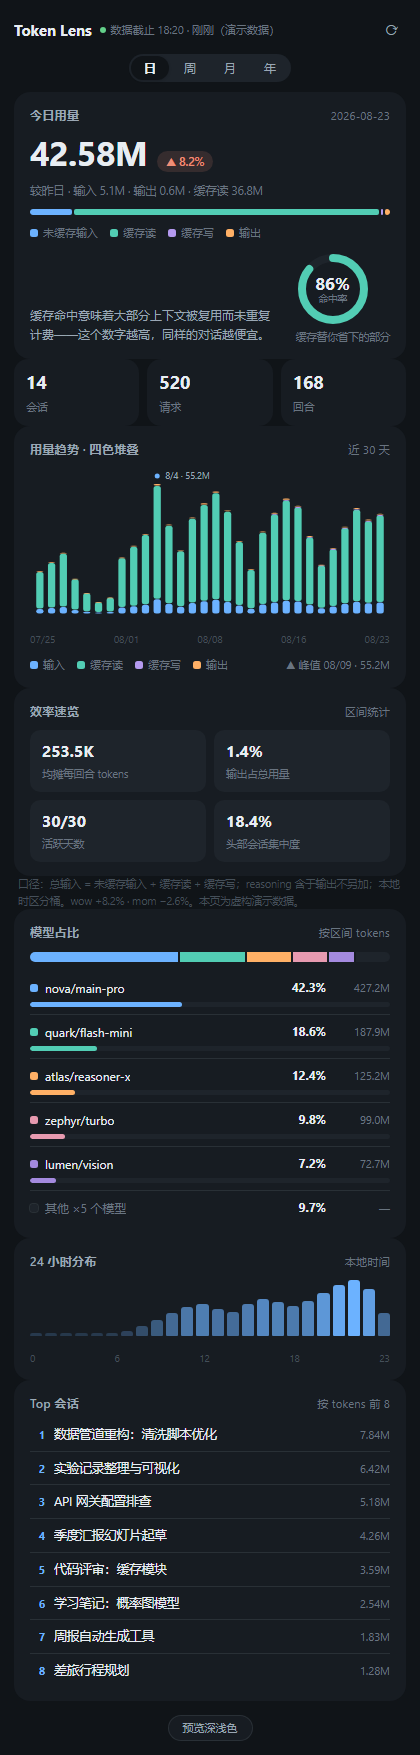
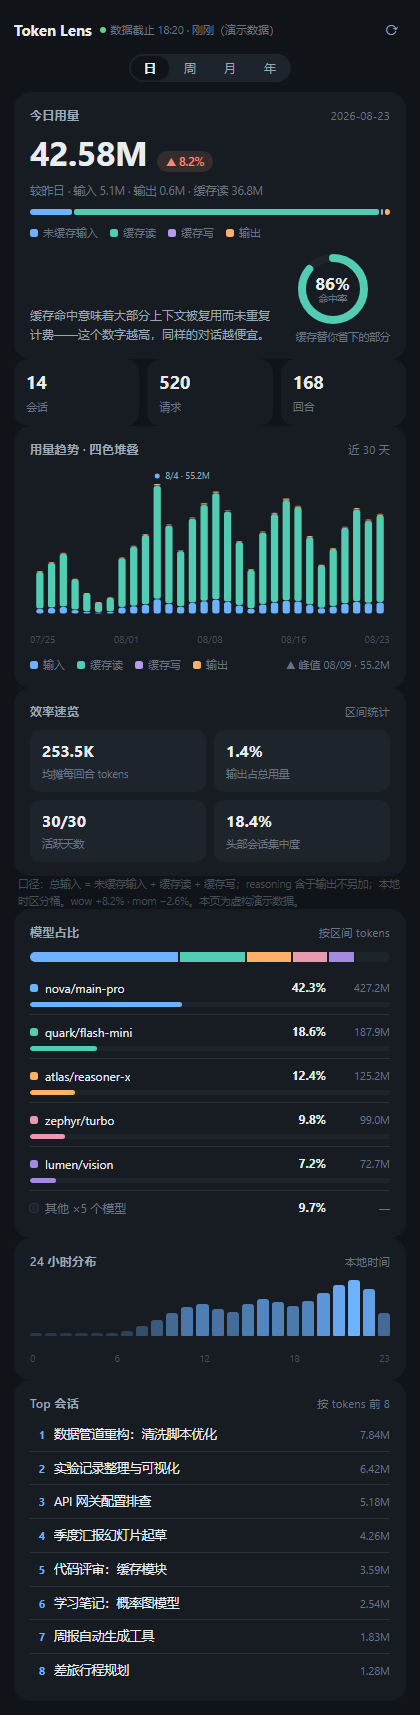
docs: 截图改为由 docs/demo.html（虚构示例数据）直接渲染，README 注明来源

diff --git a/README.md b/README.md
@@ -34,7 +34,7 @@ A token usage analytics panel for **DSH (DeepSeek Harness)** — living in your 
 
 ![宽态两列](docs/screenshots/panel-wide-dark.png)
 
-> 截图与演示均为**虚构示例数据**。想亲手玩：克隆仓库后用浏览器打开 [`docs/demo.html`](docs/demo.html)。
+> 截图与演示均为**虚构示例数据**（上面三张图即由 [`docs/demo.html`](docs/demo.html) 直接渲染）。想亲手玩：克隆仓库后用浏览器打开它。
 
 ## 📦 Installation
 
